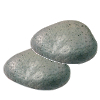
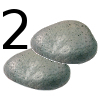
Added players. Made the text area auto scrolling. Made GameOver more descriptive. Added numbers to the images. Added a Random selection AI.

Changed region(s): [[0.03, 0.09, 0.3, 0.51]]

diff --git a/src/gameboard/GameWindow.java b/src/gameboard/GameWindow.java
@@ -1,5 +1,7 @@
 package gameboard;
 
+import gameboard.GameBoard.players;
+
 import java.awt.Color;
 import java.awt.Font;
 import java.awt.GridLayout;
@@ -80,7 +82,8 @@ public class GameWindow extends JFrame {
 		setProgress(this.board.getPebblesLeft());
 		
 		//Welcome message
-		log.append("Welcome! For how to play press r.\n");
+		addToLog("Welcome! For how to play press r.\n");
+		addToLog("Player 1, it is your turn.");
 	}
 
 	private void addMenuBar(){
@@ -137,7 +140,6 @@ public class GameWindow extends JFrame {
 
 		//Sets up the scroll pane
 		scrollable = new JScrollPane(log);
-		scrollable.setAutoscrolls(true);
 		scrollable.addKeyListener(new KeyboardListener());
 		scrollable.setFocusTraversalKeysEnabled(false);
 		scrollable.setFocusable(true);
@@ -174,12 +176,8 @@ public class GameWindow extends JFrame {
 		button.setToolTipText("Pick up "+number+" pebble(s)");
 		button.setActionCommand(""+number);
 		button.addActionListener(new ButtonListener());
-		
-		
-		
-		
-		
 		button.addKeyListener(new KeyboardListener());
+		button.setBackground(Color.white);
 		return button;
 	}
 
@@ -213,12 +211,13 @@ public class GameWindow extends JFrame {
 
 	private void addToLog(String msg){
 		scrollable.setFocusable(true);
+		log.setCaretPosition(log.getText().length());
 		log.append(msg+'\n');
 	}
 
-	private void gameOver() {
+	private void gameOver(String msg) {
 		log.setForeground(Color.red);
-		log.append("GAME OVER");
+		log.append("GAME OVER: "+msg);
 		gameOver = true;
 	}
 
@@ -228,8 +227,10 @@ public class GameWindow extends JFrame {
 			addToLog("Removing :" + remove);
 			board.takeAway(remove);
 			setProgress(board.getPebblesLeft());
+			board.switchPlayers();
+			addToLog((board.getCurrentPlayer() == players.player1) ? "Player 1, it is your turn." : "Player 2, it is your turn.");
 		} catch (GameOver e) {
-			gameOver();
+			gameOver(e.getMessage());
 		}
 	}
 
@@ -243,7 +244,6 @@ public class GameWindow extends JFrame {
 				takeAway(2);
 			} else if(e.getActionCommand().equals("3")) {
 				takeAway(3);
-
 			} else if(e.getActionCommand().equals("New")){
 				log.setText("Starting new game!\n");
 				log.setForeground(Color.black);

diff --git a/src/gameboard/GameBoard.java b/src/gameboard/GameBoard.java
@@ -6,6 +6,10 @@ public class GameBoard {
 
 	private int pebblesLeft;
 	
+	public enum players{player1, player2}
+	
+	private players currentPlayer;
+	
 	public GameBoard(){
 		newGame();
 	}
@@ -20,12 +24,24 @@ public class GameBoard {
 	
 	public void takeAway(int pickedUp) throws GameOver{
 		pebblesLeft-=pickedUp;
-		if(pebblesLeft < 1) throw new GameOver();
+		if(pebblesLeft < 1) throw new GameOver(currentPlayer);
 	}
 
 	public void newGame() { 
 		Random r = new Random();
 		int starting = r.nextInt(50) + 50;
 		this.pebblesLeft = starting;
+		currentPlayer = players.player1;
 	}
+	
+	public players switchPlayers(){
+		currentPlayer = (currentPlayer == players.player1) ? players.player2 : players.player1;
+		return currentPlayer;
+	}
+	
+	public players getCurrentPlayer(){
+		return currentPlayer;
+	}
+	
+	
 }

diff --git a/src/gameboard/GameOver.java b/src/gameboard/GameOver.java
@@ -1,5 +1,7 @@
 package gameboard;
 
+import gameboard.GameBoard.players;
+
 public class GameOver extends Exception {
 	
 	/**
@@ -13,5 +15,9 @@ public class GameOver extends Exception {
 
 	public GameOver() {
 		super();
+	}
+
+	public GameOver(players currentPlayer) {
+		super((currentPlayer == players.player1) ? "Player 1 Lost" : "Player 2 Lost");
 	}
 }

diff --git a/src/ai/Random.java b/src/ai/Random.java
@@ -1,0 +1,9 @@
+package ai;
+
+public class Random extends AI{
+
+	
+	
+	
+	
+}
